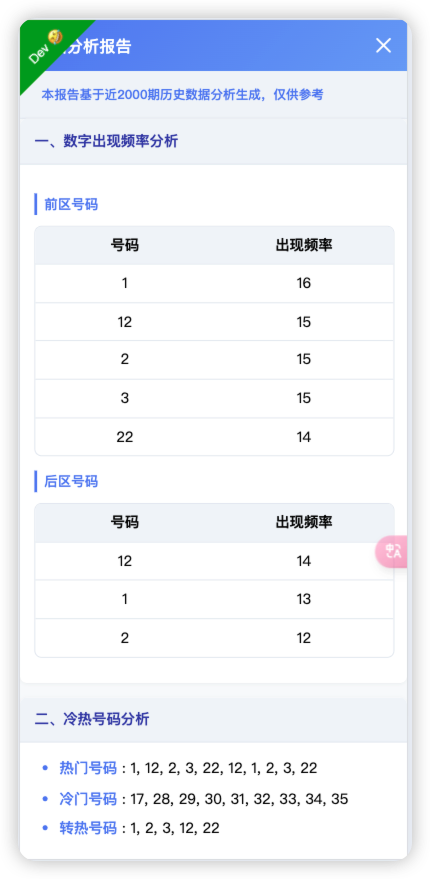
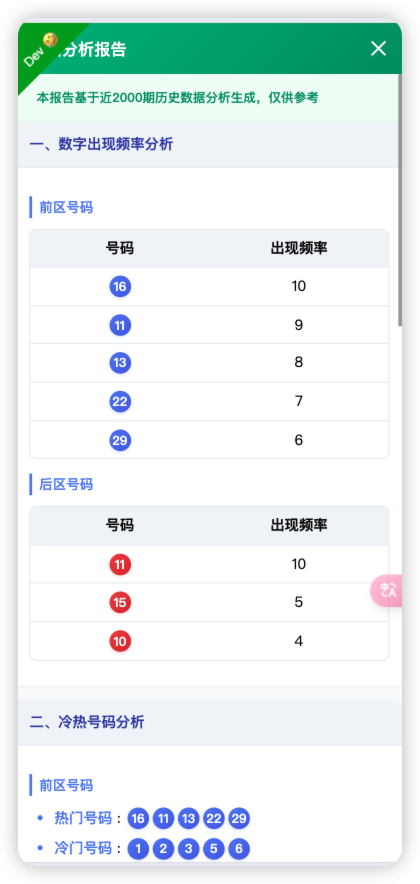
Enhance AnalysisReport with ball-styled number display and updated hot/cold analysis structure

diff --git a/src/components/AnalysisReport.vue b/src/components/AnalysisReport.vue
@@ -40,7 +40,9 @@
                 :key="item.number"
                 class="table-row"
               >
-                <div class="table-cell">{{ item.number }}</div>
+                <div class="table-cell">
+                  <span class="ball front-ball">{{ item.number }}</span>
+                </div>
                 <div class="table-cell">{{ item.frequency }}</div>
               </div>
             </div>
@@ -56,7 +58,9 @@
                 :key="item.number"
                 class="table-row"
               >
-                <div class="table-cell">{{ item.number }}</div>
+                <div class="table-cell">
+                  <span class="ball back-ball">{{ item.number }}</span>
+                </div>
                 <div class="table-cell">{{ item.frequency }}</div>
               </div>
             </div>
@@ -69,25 +73,91 @@
             <h3 class="section-title">二、冷热号码分析</h3>
           </div>
           <div class="section-content">
+            <h4 class="subsection-title">前区号码</h4>
             <div class="list-item">
               <span class="list-bullet">•</span>
               <span class="list-content">
                 <strong>热门号码</strong>
-                : {{ reportData.hotColdAnalysis.hotNumbers.join(', ') }}
+                :
+                <span
+                  v-for="num in reportData.hotColdAnalysis.frontZone.hotNumbers"
+                  :key="num"
+                  class="ball front-ball"
+                >
+                  {{ num }}
+                </span>
               </span>
             </div>
             <div class="list-item">
               <span class="list-bullet">•</span>
               <span class="list-content">
                 <strong>冷门号码</strong>
-                : {{ reportData.hotColdAnalysis.coldNumbers.join(', ') }}
+                :
+                <span
+                  v-for="num in reportData.hotColdAnalysis.frontZone.coldNumbers"
+                  :key="num"
+                  class="ball front-ball"
+                >
+                  {{ num }}
+                </span>
               </span>
             </div>
             <div class="list-item">
               <span class="list-bullet">•</span>
               <span class="list-content">
                 <strong>转热号码</strong>
-                : {{ reportData.hotColdAnalysis.risingNumbers.join(', ') }}
+                :
+                <span
+                  v-for="num in reportData.hotColdAnalysis.frontZone.risingNumbers"
+                  :key="num"
+                  class="ball front-ball"
+                >
+                  {{ num }}
+                </span>
+              </span>
+            </div>
+
+            <h4 class="subsection-title">后区号码</h4>
+            <div class="list-item">
+              <span class="list-bullet">•</span>
+              <span class="list-content">
+                <strong>热门号码</strong>
+                :
+                <span
+                  v-for="num in reportData.hotColdAnalysis.backZone.hotNumbers"
+                  :key="num"
+                  class="ball back-ball"
+                >
+                  {{ num }}
+                </span>
+              </span>
+            </div>
+            <div class="list-item">
+              <span class="list-bullet">•</span>
+              <span class="list-content">
+                <strong>冷门号码</strong>
+                :
+                <span
+                  v-for="num in reportData.hotColdAnalysis.backZone.coldNumbers"
+                  :key="num"
+                  class="ball back-ball"
+                >
+                  {{ num }}
+                </span>
+              </span>
+            </div>
+            <div class="list-item">
+              <span class="list-bullet">•</span>
+              <span class="list-content">
+                <strong>转热号码</strong>
+                :
+                <span
+                  v-for="num in reportData.hotColdAnalysis.backZone.risingNumbers"
+                  :key="num"
+                  class="ball back-ball"
+                >
+                  {{ num }}
+                </span>
               </span>
             </div>
           </div>
@@ -104,7 +174,10 @@
               <span class="list-bullet">•</span>
               <span class="list-content">
                 <strong>最大遗漏号码</strong>
-                : {{ reportData.missingAnalysis.frontZone.maxMissingNumber }}
+                :
+                <span class="ball front-ball">
+                  {{ reportData.missingAnalysis.frontZone.maxMissingNumber }}
+                </span>
               </span>
             </div>
             <div class="list-item">
@@ -243,7 +316,12 @@
             <div v-for="(rec, index) in reportData.recommendations" :key="index" class="list-item">
               <span class="list-number">{{ index + 1 }}.</span>
               <span class="list-content">
-                前区: {{ rec.frontZone.join(', ') }} | 后区: {{ rec.backZone.join(', ') }}
+                前区:
+                <span v-for="num in rec.frontZone" :key="num" class="ball front-ball">
+                  {{ num }}
+                </span>
+                | 后区:
+                <span v-for="num in rec.backZone" :key="num" class="ball back-ball">{{ num }}</span>
               </span>
             </div>
           </div>
@@ -411,8 +489,8 @@ onMounted(() => {
   justify-content: space-between;
   padding: 16px;
   color: white;
-  background: linear-gradient(135deg, #3b82f6 0%, #60a5fa 100%);
-  box-shadow: 0 2px 10px rgba(0, 0, 0, 0.1);
+  background: linear-gradient(135deg, #10b981 0%, #059669 100%);
+  box-shadow: 0 2px 10px rgba(16, 185, 129, 0.1);
 }
 
 .report-header h2 {
@@ -432,15 +510,15 @@ onMounted(() => {
   display: flex;
   align-items: center;
   padding: 16px;
-  background-color: #f1f5f9;
-  border-bottom: 1px solid #e2e8f0;
+  background-color: #f0fdf4;
+  border-bottom: 1px solid #dcfce7;
 }
 
 .report-intro span {
   margin-left: 8px;
   font-size: 14px;
   font-weight: 500;
-  color: #3b82f6;
+  color: #059669;
 }
 
 .loading,
@@ -536,6 +614,29 @@ onMounted(() => {
   flex: 1;
   padding: 8px 12px;
   text-align: center;
+}
+
+.ball {
+  display: inline-block;
+  width: 24px;
+  height: 24px;
+  line-height: 24px;
+  text-align: center;
+  border-radius: 50%;
+  font-size: 14px;
+  font-weight: 500;
+  color: white;
+  margin: 0 2px;
+}
+
+.front-ball {
+  background: linear-gradient(135deg, #3b82f6 0%, #2563eb 100%);
+  box-shadow: 0 2px 4px rgba(37, 99, 235, 0.2);
+}
+
+.back-ball {
+  background: linear-gradient(135deg, #ef4444 0%, #dc2626 100%);
+  box-shadow: 0 2px 4px rgba(220, 38, 38, 0.2);
 }
 
 p {

diff --git a/src/constants/mockData.ts b/src/constants/mockData.ts
@@ -18,9 +18,16 @@ export const MOCK_ANALYSIS_REPORT = {
         ],
       },
       hotColdAnalysis: {
-        hotNumbers: [1, 2, 3, 4, 5, 6, 7, 8, 9, 10],
-        coldNumbers: [21, 22, 23, 24, 25, 26, 27, 28, 29, 30],
-        risingNumbers: [11, 12, 13, 14, 15, 16, 17, 18, 19, 20],
+        frontZone: {
+          hotNumbers: [1, 2, 3, 4, 5],
+          coldNumbers: [21, 22, 23, 24, 25],
+          risingNumbers: [11, 12, 13, 14, 15],
+        },
+        backZone: {
+          hotNumbers: [1, 2],
+          coldNumbers: [10, 11, 12],
+          risingNumbers: [5, 6],
+        },
       },
       missingAnalysis: {
         frontZone: {
